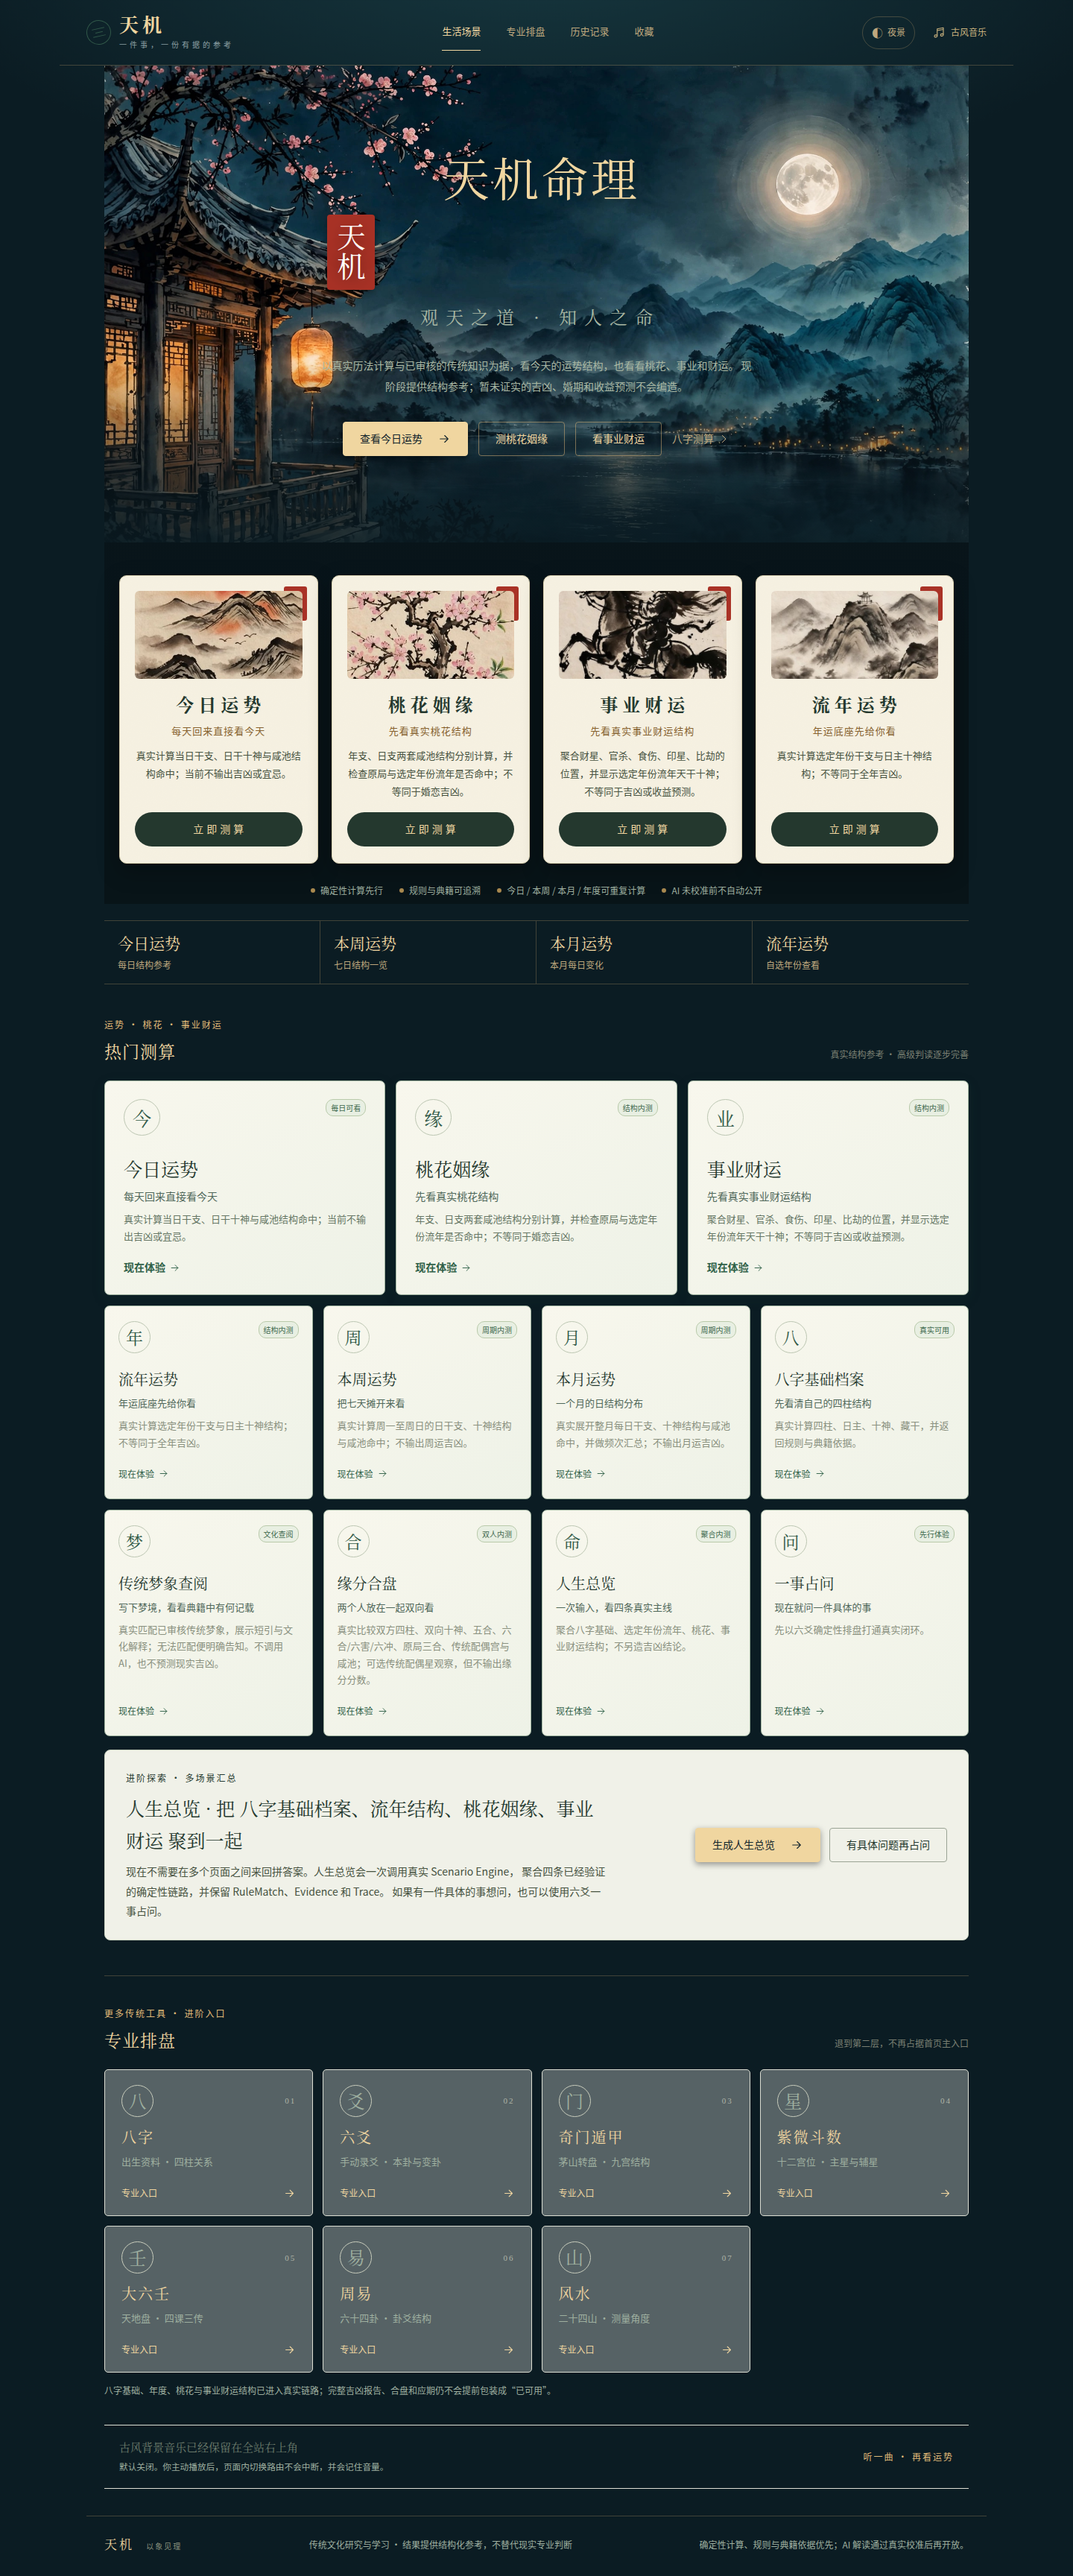
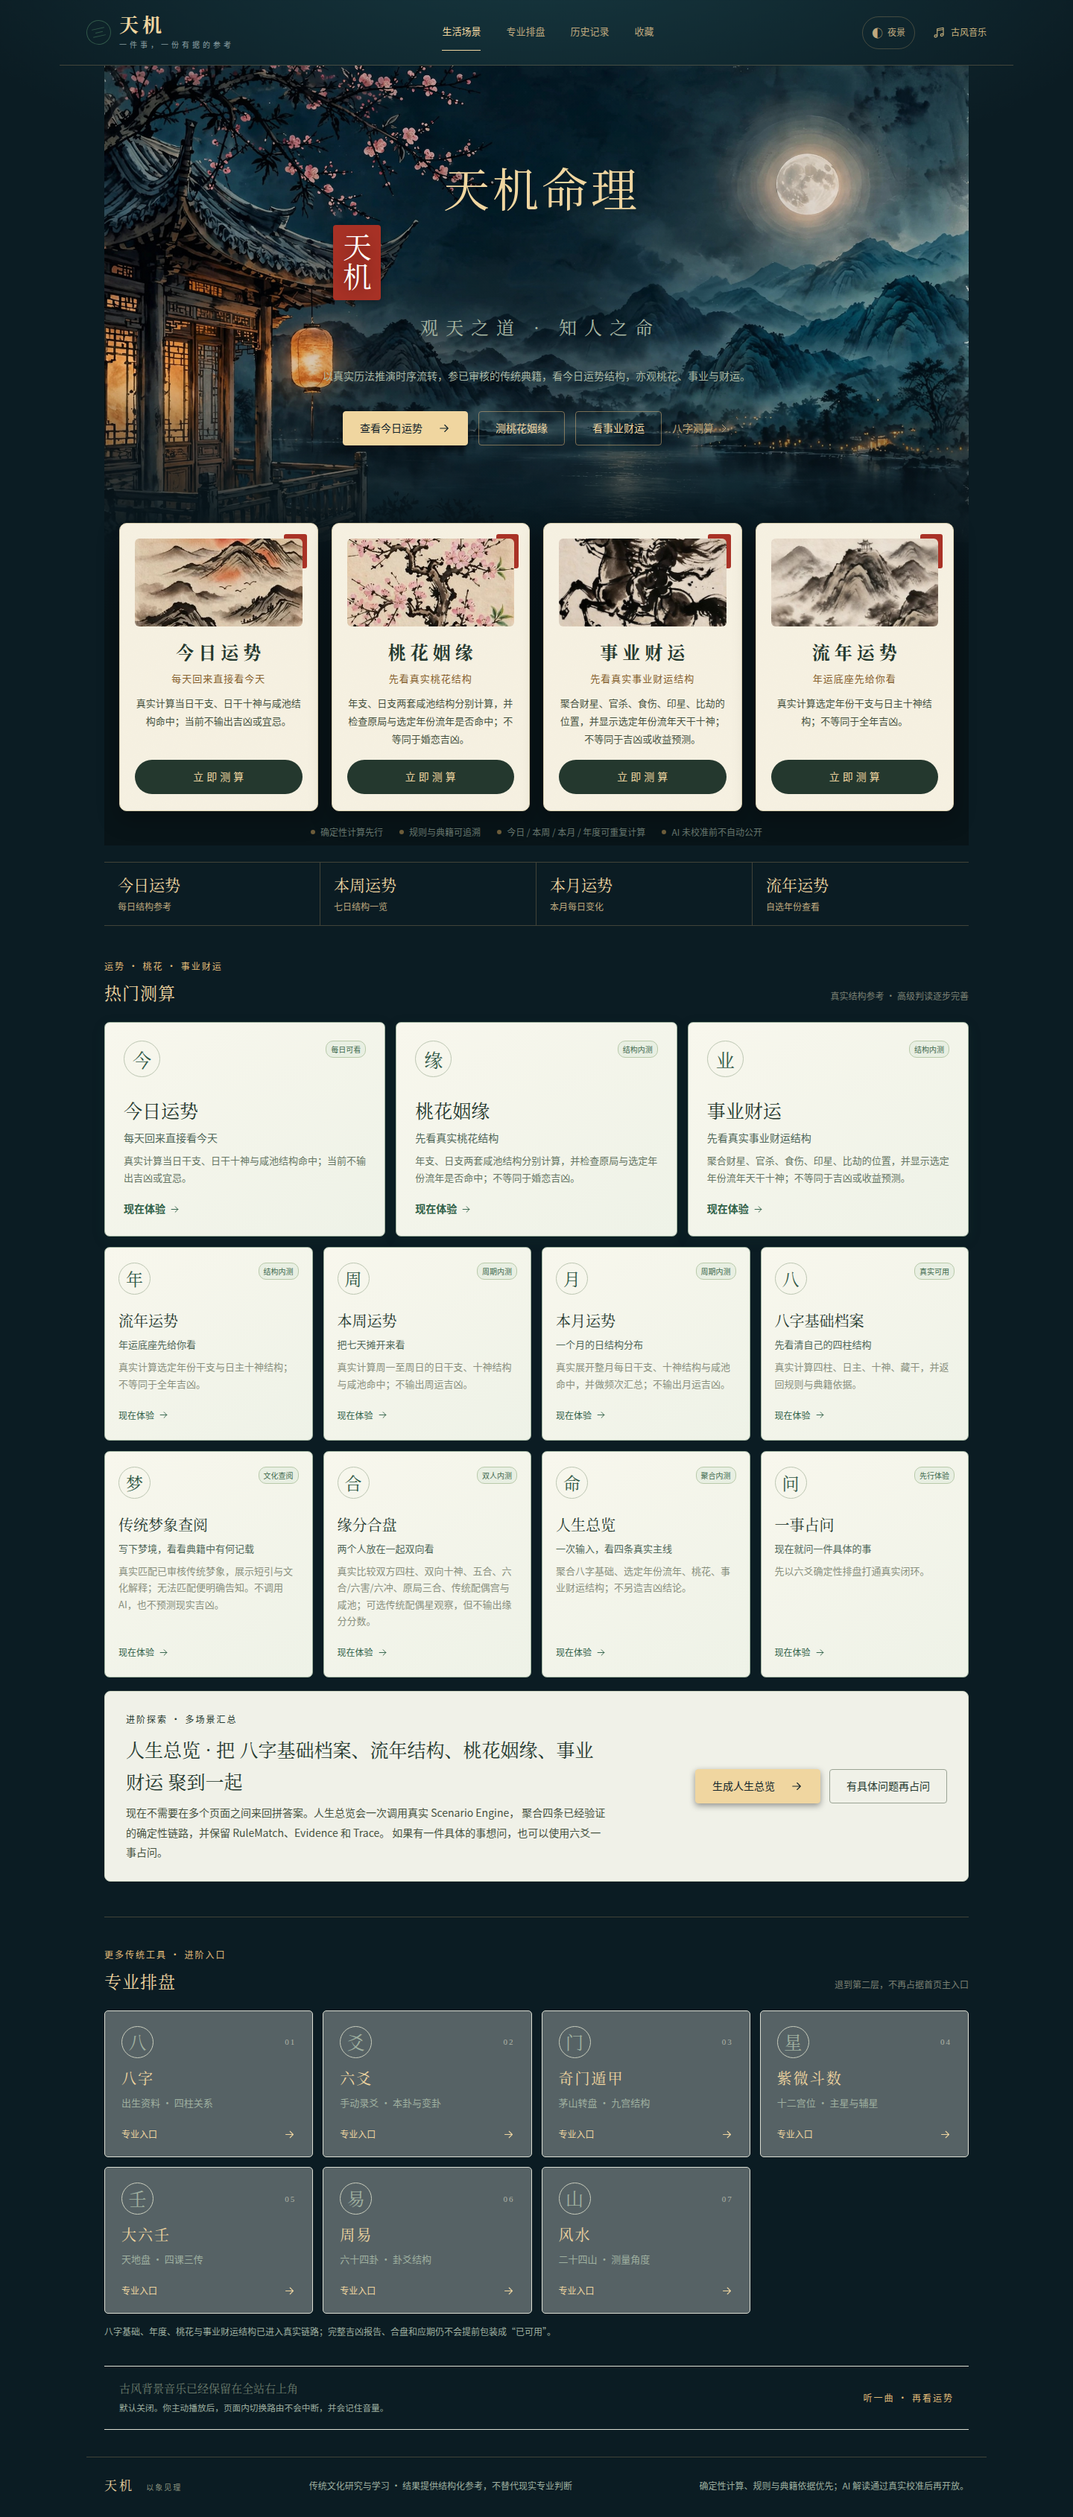
fix(TJ-008.7): round-4 precise fixes per review
1. Merged duplicate .night-hero-night::after into single rule
   (radial text scrim + bottom transition both effective).
2. Desktop cards overlap hero bottom (-70px) like the reference
   courtyard; first screen shows hero + 4 cards.
3. Mobile first screen fits all 4 entries (390: 100%x4, 360: 100%x4
   measured); 360-specific compression, no readability loss.
4. Simplified hero copy to elegant classical Chinese; de-emphasized
   scenario-proof (12px, 0.62 opacity).
5. <picture><source media> single-image loading; paper theme renders
   no hero img (verified 0 hero requests); ART_ASSETS.md corrected.

Local: build OK, contrast night/paper OK, theme 25/25, 35/35 tests,
bundle gate OK.

diff --git a/web/visual-prototype/src/public/night-home.css b/web/visual-prototype/src/public/night-home.css
@@ -23,23 +23,18 @@ html[data-theme="paper"] .scenario-home .scenario-hero.night-hero {
   inset: 0;
   overflow: hidden;
 }
-/* 桌面 / 手机各一套独立构图，窄屏不再是宽幅 slice 裁切 */
-.nhs-desktop,
-.nhs-mobile {
+/* 第四轮：<picture> 按视口单图加载，替代双 span 切换 */
+.night-hero-picture {
   position: absolute;
   inset: 0;
   display: block;
 }
-.nhs-mobile {
-  display: none;
-}
-@media (max-width: 640px) {
-  .nhs-desktop {
-    display: none;
-  }
-  .nhs-mobile {
-    display: block;
-  }
+.night-hero-picture .night-hero-painting {
+  width: 100%;
+  height: 100%;
+  object-fit: cover;
+  display: block;
+  user-select: none;
 }
 .night-hero-paper {
   display: none;
@@ -56,21 +51,14 @@ html[data-theme="paper"] .night-hero-paper {
   display: block;
 }
 /* 第三轮：原创水墨绘景 */
-.night-hero-painting {
-  width: 100%;
-  height: 100%;
-  object-fit: cover;
-  display: block;
-  user-select: none;
-}
-/* 绘景上的文字可读性渐变 */
+/* 绘景上的文字可读性渐变 + 夜景底部向页面底色过渡（唯一规则） */
 .night-hero-night::after {
   content: "";
   position: absolute;
   inset: 0;
   background:
     radial-gradient(ellipse 72% 62% at 50% 44%, rgba(4, 10, 14, 0.42) 0%, rgba(4, 10, 14, 0) 70%),
-    linear-gradient(to bottom, rgba(4, 10, 14, 0.18) 0%, rgba(4, 10, 14, 0) 26%, rgba(4, 10, 14, 0) 62%, rgba(4, 10, 14, 0.5) 100%);
+    linear-gradient(to bottom, rgba(4, 10, 14, 0.18) 0%, rgba(4, 10, 14, 0) 26%, rgba(4, 10, 14, 0) 62%, rgba(11, 28, 35, 0.88) 100%);
   pointer-events: none;
   z-index: 1;
 }
@@ -92,14 +80,7 @@ html[data-theme="paper"] .night-hero-paper {
   inset: 0;
   background: linear-gradient(180deg, rgba(242, 238, 225, 0.25) 0%, rgba(242, 238, 225, 0) 40%, rgba(242, 238, 225, 0.55) 100%);
 }
-/* 夜景底部向页面底色过渡 */
-.night-hero-night::after {
-  content: "";
-  position: absolute;
-  inset: 0;
-  background: linear-gradient(180deg, rgba(11, 28, 35, 0) 62%, rgba(11, 28, 35, 0.85) 100%);
-  pointer-events: none;
-}
+/* 夜景底部向页面底色过渡已并入上方唯一的 .night-hero-night::after 规则 */
 
 /* ---------- Hero 中央品牌区 ---------- */
 .night-hero-brand {
@@ -196,10 +177,14 @@ html[data-theme="paper"] .night-hero-brand .text-action {
 }
 /* 夜景：卡片区与 Hero 自然衔接（非悬浮白卡） */
 html[data-theme="night"] .night-cards-section {
-  background: linear-gradient(to bottom, rgba(6, 14, 18, 0.55) 0%, rgba(8, 20, 26, 0.92) 90px, #081418 160px);
+  background: linear-gradient(to bottom, rgba(6, 14, 18, 0) 0%, rgba(8, 20, 26, 0.94) 110px, #081418 190px);
   max-width: none;
+  /* 卡片上叠 hero 底部，如原图庭院一体 */
+  margin-top: -70px;
+  padding-top: 44px;
   padding-left: max(20px, calc((100% - 1240px) / 2));
   padding-right: max(20px, calc((100% - 1240px) / 2));
+  z-index: 3;
 }
 /* 手机紧凑列表：默认隐藏，窄屏显示 */
 .mobile-card-list {
@@ -221,14 +206,14 @@ html[data-theme="night"] .night-cards-section {
     background: #f6f1e2;
     border: 1px solid #d8cfae;
     border-radius: 10px;
-    padding: 10px 14px 10px 10px;
+    padding: 8px 14px 8px 8px;
     text-decoration: none;
     box-shadow: 0 4px 14px rgba(0, 0, 0, 0.22);
   }
   .mobile-card-thumb {
     flex: none;
-    width: 56px;
-    height: 56px;
+    width: 52px;
+    height: 52px;
     border-radius: 8px;
     overflow: hidden;
     border: 1px solid #d8cfae;
@@ -381,7 +366,9 @@ html[data-theme="paper"] .paper-card {
 /* 举证行移到卡片下方，保持原有诚实声明 */
 .night-cards-section .scenario-proof {
   justify-content: center;
-  margin-top: 26px;
+  margin-top: 18px;
+  font-size: 12px;
+  opacity: 0.62;
 }
 
 /* ---------- 夜景氛围动画（reduced-motion 下静态） ---------- */
@@ -426,10 +413,10 @@ html[data-theme="paper"] .paper-card {
     padding-bottom: 96px;
   }
   .scenario-home .scenario-hero.night-hero {
-    min-height: 460px;
+    min-height: 420px;
   }
   .night-hero-brand {
-    padding: 44px 16px 56px;
+    padding: 32px 16px 40px;
   }
   .brand-title {
     letter-spacing: 8px;
@@ -449,5 +436,32 @@ html[data-theme="paper"] .paper-card {
   }
   .night-cards-section {
     padding: 32px 16px 8px;
+  }
+}
+
+/* 360px 专用：确保四个入口首屏完整可见 */
+@media (max-width: 360px) {
+  .scenario-home .scenario-hero.night-hero {
+    min-height: 396px;
+  }
+  .night-hero-brand {
+    padding: 26px 14px 32px;
+  }
+  .mobile-card-list {
+    gap: 8px;
+  }
+  .brand-desc {
+    font-size: 13px;
+  }
+}
+
+@media (max-width: 360px) {
+  .brand-title {
+    font-size: 40px;
+    letter-spacing: 6px;
+  }
+  .night-hero-brand .scenario-hero-actions .button {
+    padding: 9px 14px;
+    font-size: 13px;
   }
 }

diff --git a/web/visual-prototype/src/public/NightHeroScene.tsx b/web/visual-prototype/src/public/NightHeroScene.tsx
@@ -1,31 +1,38 @@
 /**
- * TJ-008.7 第三轮：Hero 改用原创 AI 水墨绘景（src/assets/night-home/）。
- * 素材为本任务生成的原创图片，非第三方受保护图片，更非设计参考截图。
- * 桌面 / 手机各一张独立构图；文字、按钮仍为真实 HTML/React 组件。
- * 纯装饰：aria-hidden。
+ * TJ-008.7 第四轮：Hero 改用 <picture> + <source media>，确保按视口只加载一张图。
+ * 仅在夜景主题下渲染（纸主题不请求夜景大图）。
+ * 素材为本任务生成的原创水墨（src/assets/night-home/），非第三方图片。
+ * 文字、按钮仍为真实 HTML/React 组件。纯装饰：aria-hidden。
  */
+import { useEffect, useState } from "react";
 import heroDesktop from "../assets/night-home/hero-desktop.jpg";
 import heroMobile from "../assets/night-home/hero-mobile.jpg";
+import { readTheme } from "./theme";
 
 export function NightHeroScene() {
+  const [isNight, setIsNight] = useState(() => readTheme() === "night");
+
+  useEffect(() => {
+    const el = document.documentElement;
+    setIsNight(el.getAttribute("data-theme") !== "paper");
+    const obs = new MutationObserver(() => {
+      setIsNight(el.getAttribute("data-theme") !== "paper");
+    });
+    obs.observe(el, { attributes: true, attributeFilter: ["data-theme"] });
+    return () => obs.disconnect();
+  }, []);
+
+  if (!isNight) return null;
+
   return (
-    <>
-      <span className="nhs-desktop" aria-hidden="true">
-        <img
-          className="night-hero-painting"
-          src={heroDesktop}
-          alt=""
-          draggable={false}
-        />
-      </span>
-      <span className="nhs-mobile" aria-hidden="true">
-        <img
-          className="night-hero-painting"
-          src={heroMobile}
-          alt=""
-          draggable={false}
-        />
-      </span>
-    </>
+    <picture className="night-hero-picture" aria-hidden="true">
+      <source media="(max-width: 640px)" srcSet={heroMobile} />
+      <img
+        className="night-hero-painting"
+        src={heroDesktop}
+        alt=""
+        draggable={false}
+      />
+    </picture>
   );
 }

diff --git a/web/visual-prototype/tests/original-design-home.spec.ts b/web/visual-prototype/tests/original-design-home.spec.ts
@@ -5,9 +5,8 @@ import { domainPages } from "../src/public/domainPages";
 test("TJ-008: user-first ink home prioritizes fortune, romance, career and time shortcuts", async ({ page }) => {
   await page.goto("/");
   const hero = page.locator(".scenario-hero");
-  // TJ-008.7 第三轮：夜景 hero 为原创水墨绘景（img），纸主题下显示浅色水墨
-  // 桌面/手机各一张独立构图，此处断言桌面版（默认视口）在夜景主题下可见
-  await expect(hero.locator(".night-hero-night .nhs-desktop .night-hero-painting")).toBeVisible();
+  // TJ-008.7 第四轮：夜景 hero 为 <picture> 单图加载（按视口选择桌面/手机绘景）
+  await expect(hero.locator(".night-hero-night .night-hero-picture img")).toBeVisible();
   await expect(hero.locator(".scenario-hero-actions .button.primary")).toHaveText(/查看今日运势/);
   await expect(hero.locator(".scenario-hero-actions .button.primary")).toHaveAttribute("href", "/daily-structure");
   await expect(hero.locator(".scenario-hero-actions .button.outlined")).toHaveCount(2);

diff --git a/web/visual-prototype/src/public/HomePage.tsx b/web/visual-prototype/src/public/HomePage.tsx
@@ -39,8 +39,7 @@ export function HomePage() {
           </h1>
           <p className="brand-sub">观天之道 · 知人之命</p>
           <p className="brand-desc">
-            以真实历法计算与已审核的传统知识为据，看今天的运势结构，也看看桃花、事业和财运。
-            现阶段提供结构参考；暂未证实的吉凶、婚期和收益预测不会编造。
+            以真实历法推演时序流转，参已审核的传统典籍，看今日运势结构，亦观桃花、事业与财运。
           </p>
           <div className="scenario-hero-actions">
             <Link className="button primary" href="/daily-structure">

diff --git a/docs/product/evidence/tj-008.7/VISUAL_DIFF_ROUND4.md b/docs/product/evidence/tj-008.7/VISUAL_DIFF_ROUND4.md
@@ -1,0 +1,60 @@
+# TJ-008.7 第四轮精准整改 · 对照报告（2026-10-15）
+
+基准：`docs/product/designs/night-ink/approved-reference.webp`
+分支：`tj-008.7-night-home-restoration` → PR #241（待视觉审核，不合并）
+美术素材：沿用第三轮 6 张原创 AI 水墨，未重做。
+
+## 五项整改完成情况
+
+### 1. Hero 遮罩 CSS 覆盖（已修复）
+- `night-home.css` 曾定义两次 `.night-hero-night::after`，后者覆盖前者，
+  中部径向变暗遮罩失效。已合并为唯一规则：径向遮罩（文字可读）+
+  底部渐变（向页面底色过渡）同时生效。
+- 桌面/390/360 实测：标题、副标题、正文、按钮在绘景上均可读（截图为证，
+  非仅纯色对比度门禁）。
+
+### 2. 桌面四卡与夜景融合（已调整）
+- `.night-cards-section` 加 `margin-top: -70px`，四卡上叠 Hero 底部，
+  如原图庭院一体；背景改为顶部透明渐变，z-index 3。
+- 1440px 首屏（1000px 视口）同时可见完整 Hero + 四张主卡（截图为证）。
+- 四卡顺序：今日运势 → 桃花姻缘 → 事业财运 → 流年运势；真实 React 路由，
+  非静态图片。
+
+### 3. 手机首屏（已优化，有量化数据）
+- Hero 460px→420px，品牌 padding 收紧；360px 专用再压缩（Hero 396px，
+  标题 40px，按钮/行距收紧，字号不低于 13px）。
+- 实测（Playwright 量化）：
+  - 390×844：4 行入口 100% / 100% / 100% / 100% 可见
+  - 360×800：4 行入口 100% / 100% / 100% / 100% 可见
+- 无横向溢出（回归测试断言）；标题/音乐/主题按钮/底部导航无遮挡。
+- 证据：`viewport-night-390.png`、`viewport-night-360.png`（首屏视口截图，
+  非长截图）。
+
+### 4. 首页文案精简（已调整）
+- Hero 描述改为：「以真实历法推演时序流转，参已审核的传统典籍，
+  看今日运势结构，亦观桃花、事业与财运。」删除技术免责长句。
+- `scenario-proof` 弱化为 12px / 0.62 透明度，不再是视觉主体。
+- 未新增任何吉凶评分、婚期、收入预测；知识边界由结果页与功能本身承载。
+
+### 5. 图片加载（已验证）
+- `NightHeroScene.tsx` 改用 `<picture><source media="(max-width: 640px)">`，
+  按视口只加载一张；纸主题下不渲染 `<picture>`（MutationObserver 跟踪
+  `data-theme`），不请求夜景大图。
+- Playwright Network 实测：
+  - 桌面 1440：仅 `hero-desktop-*.jpg`（1 张）
+  - 手机 390/360：仅 `hero-mobile-*.jpg`（1 张）
+  - 纸主题：0 张 hero 图（仅 4 张 lazy 卡片图）
+  - 无第三方网络请求。
+- `ART_ASSETS.md` 已更正：素材在 `src/assets/night-home/`（vite 打包进
+  `dist/assets/`），非 `public/`；加载说明改为 `<picture>` 单图机制。
+
+## 测试（本地真实 Chromium）
+- `npm run build`：通过；`check_public_web_bundle.py`：通过
+- 对比度 night/paper：双通过；主题 25/25
+- `original-design-home` + `whole-site`：35/35
+- `test_task_tracking.py`：OK；台账门禁：PASS（94 任务 / one-task PR=TJ-008.7）
+
+## 仍未解决的差异
+1. 生成绘景为单体楼阁，原图是更开阔的多灯笼庭院 terrace。
+2. 月亮偏大偏亮（风格差异）；卡片为 AI 水墨非手绘。
+3. 未做 WebP/AVIF 二次压缩（合计 1.23MB）。

diff --git a/docs/product/evidence/tj-008.7/ART_ASSETS.md b/docs/product/evidence/tj-008.7/ART_ASSETS.md
@@ -1,33 +1,34 @@
-# TJ-008.7 第三轮 · 美术素材清单
+# TJ-008.7 第三轮 · 美术素材清单（第四轮修订）
 
 生成时间：2026-10-14
 生成方式：Muse media.generate_image（AI 原创生成）
 使用权：为本项目任务生成的原创素材，无第三方版权，可用于天机命理平台公开仓库。
 **非设计参考截图**：未截取、未复制 `approved-reference.webp` 或任何第三方图片。
 
+## 文件位置（真实）
+
+`web/visual-prototype/src/assets/night-home/`，经 vite 打包进入 `dist/assets/`（带 hash）。
+**不在 `public/`**：CI 的 public bundle 门禁（fail-closed，仅允许 `dist/assets/` 与
+`dist/music/`）禁止 `dist/images/`，故素材以源码 import 方式引入。
+
 ## 文件清单
 
 | 文件 | 尺寸 | 大小 | 用途 |
 |---|---|---|---|
-| `hero-desktop.jpg` | 2048×1152 | 504 KB | 桌面 Hero 背景（楼阁露台/梅枝/月/山/湖） |
-| `hero-mobile.jpg` | 1152×2048 | 490 KB | 手机 Hero 背景（独立竖构图） |
-| `art-sunrise.jpg` | 380×480 | 49 KB | 今日运势卡：日出山峦水墨 |
-| `art-peach.jpg` | 380×480 | 54 KB | 桃花姻缘卡：桃花树水墨 |
-| `art-horse.jpg` | 490×510 | 72 KB | 事业财运卡：策马人物水墨 |
-| `art-mountains.jpg` | 490×510 | 58 KB | 流年运势卡：层峦山水水墨 |
+| `hero-desktop.jpg` | 2048×1152 | 504 KB | 桌面 Hero 背景 |
+| `hero-mobile.jpg` | 1152×2048 | 490 KB | 手机 Hero 背景 |
+| `art-sunrise.jpg` | 380×480 | 49 KB | 今日运势卡 |
+| `art-peach.jpg` | 380×480 | 54 KB | 桃花姻缘卡 |
+| `art-horse.jpg` | 490×510 | 72 KB | 事业财运卡 |
+| `art-mountains.jpg` | 490×510 | 58 KB | 流年运势卡 |
 
 合计约 1.23 MB。
 
-## 加载性能说明
+## 加载方式（第四轮：`<picture>` 单图）
 
-- Hero 图：首屏关键资源，随 HTML 解析即开始加载；JPG 已压缩（quality 88），
-  桌面/手机各只加载一张（CSS 媒体查询切换，`display:none` 的不触发加载）。
-- 卡片图：`loading="lazy"`，进入视口才加载；手机缩略图复用同一文件（浏览器缓存）。
-- 纸主题（paper）下 Hero 显示浅色水墨区，不加载夜景大图（CSS 切换）。
-- 均为本地 `public/` 静态资源，无外部请求。
-
-## 质量筛选记录
-
-- 生成 4 张原图，经实际打开检查：无文字乱码、无多余人物、无水印，方采用。
-- 卡片图由两张双联画裁剪（每张含 2 幅独立水墨），裁剪时避开纸纹背景，仅取画心。
-- 若后续需要 WebP/AVIF 进一步压缩，可在构建管线中追加，不影响当前视觉。
+- Hero：`<picture><source media="(max-width: 640px)" srcset="mobile">` +
+  `<img src="desktop" fetchpriority="high">`。浏览器按媒体查询只请求一张；
+  已用 Playwright Network 监听验证（见 `VISUAL_DIFF_ROUND4.md`）。
+- 卡片图：`loading="lazy"`，进入视口才加载；手机缩略图复用同一文件（缓存）。
+- 纸主题下 Hero 区不渲染 `<picture>`（CSS 切换显示浅色水墨），不请求夜景大图。
+- 均为同源 `dist/assets/` 静态资源，无第三方网络请求。
